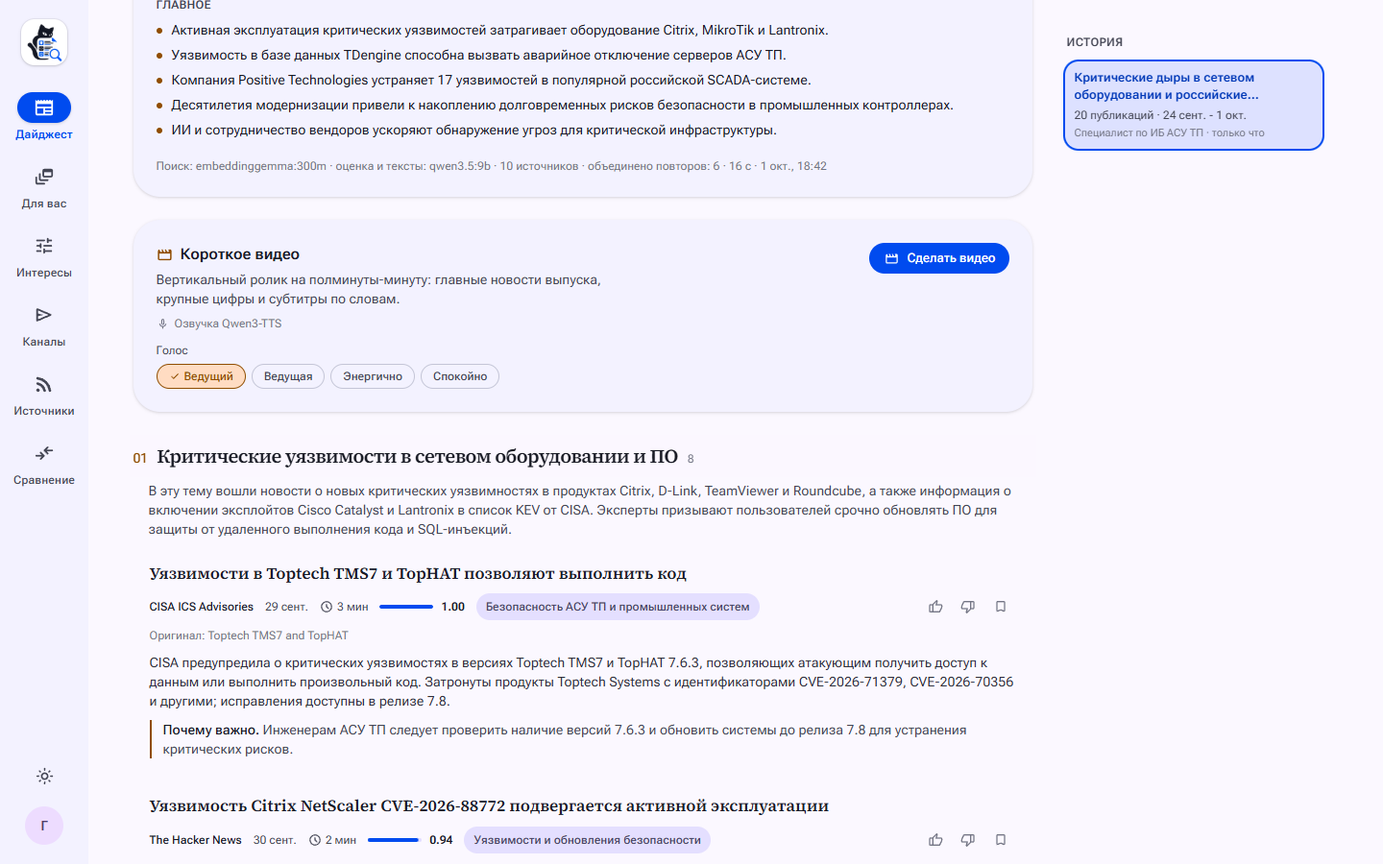
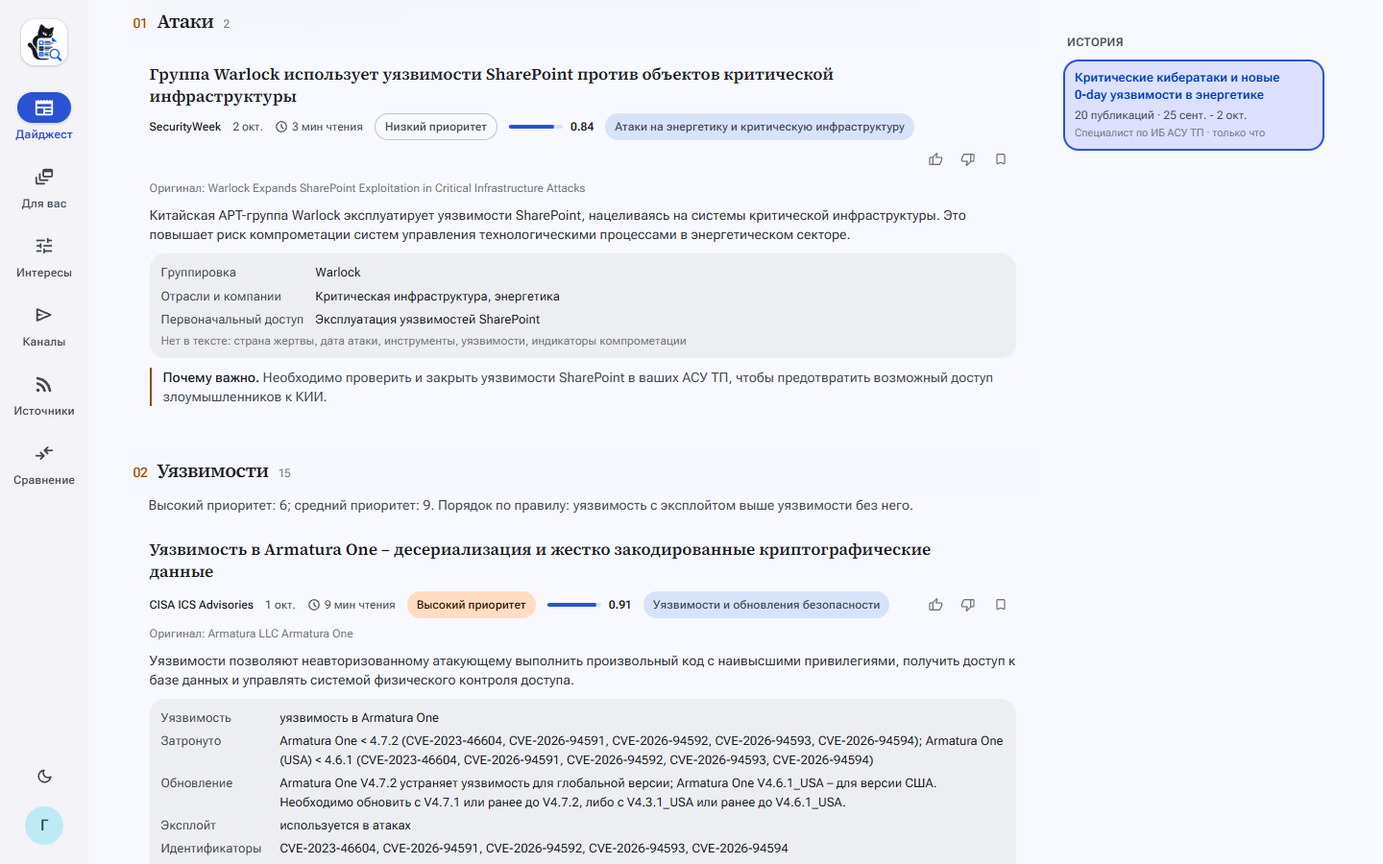
docs: the submission's summary, the business case and a first screen for the jury
The task asks for a short description of the capabilities and limits;
docs/SUMMARY.md is that: the core (collection, selection by interests,
the dataset's formats and priorities, the lookup tool, the check of
results, the digest, interest changes, models, resilience), the modules
one line each, what was measured and the limits of the core first.

docs/BUSINESS.md says who reads what in an energy company, what the
company gets, three ways to deploy (cloud, closed network, hybrid) with
what leaves the network, what a digest costs in model calls, a pilot
with its metrics and the risks. Nothing in it is a number that was not
measured: the hours a manual review takes are the pilot's first metric.

README opens with a table from each task requirement to where to see it,
and its first picture is a specialist's digest with the dataset's
sections and an exploited vulnerability's card. IMPROVEMENT_PLAN.md
starts with what of it is done.

diff --git a/docs/SUMMARY.md b/docs/SUMMARY.md
@@ -1,0 +1,76 @@
+# Tail&Grep: возможности и ограничения
+
+Краткое описание для сдачи полуфинала. Задание - в [docs/task](task/TASK.md), как запустить и что показать - в [README](../README.md), почему решения такие и что измерено - в [DECISIONS](DECISIONS.md).
+
+## Что это
+
+ИИ-ассистент, который каждую неделю или по расписанию собирает для читателя дайджест по ИТ и ИБ для энергетики: забирает публикации из источников, отбирает нужные по интересам читателя, группирует, пишет короткие тексты и выдаёт Markdown и DOCX со ссылками на источники. Формат выпуска повторяет датасет организаторов: специалисту - атаки и уязвимости карточками с приоритетом, руководству - сводки с признаками.
+
+## Возможности ядра
+
+- **Сбор.** 65 источников: 50 лент RSS и Atom, 14 открытых Telegram-каналов и страница трендовых уязвимостей Positive Technologies. Среди них источники из списков датасета, покрытие разобрано в DECISIONS. Опрос каждые 15 минут, полный текст подтягивается со страницы, если в ленте только анонс. Записи БДУ ФСТЭК читаются из данных страницы уязвимости.
+- **Отбор по интересам.** У читателя профиль: интересы с ключевыми словами и весом, исключения, порог, размер выпуска. Поиск по каждому интересу идёт по смыслу и по словам, 60 лучших кандидатов оценивает модель по шкале 0-3 и называет тип записи. Повторы одной новости склеиваются, ссылки на пересказы остаются.
+- **Группировка и формат.**
+  - Специалисту: разделы «Атаки» и «Уязвимости», упорядоченные по правилу датасета. Атака на энергетику и промышленность РФ выше атаки на другие отрасли РФ, атака вне РФ ниже всех; уязвимость с эксплойтом выше уязвимости без него. Остальное разбито на темы с названиями от модели.
+  - Руководству: темы и двенадцать признаков датасета.
+- **Карточки по датасету.**
+  - У атаки: страна жертвы, группировка, дата, отрасли, первоначальный доступ, инструменты, уязвимости, индикаторы.
+  - У уязвимости: продукт, версии, обновление, временные меры, эксплойт, идентификаторы, CVSS, последствия.
+  - У поста из Telegram: ссылки, на которые он ссылается, в обезвреженном виде.
+- **Применение инструментов.** Пока модель пишет карточку, она может вызвать `lookup_vulnerability`: есть ли уязвимость в каталоге CISA KEV и что о ней пишет БДУ ФСТЭК. Номера, о которых модель не спросила, проверяет сам граф.
+- **Проверка результатов.**
+  - Карточка сверяется с текстом статьи и ответами баз: идентификаторы, CVSS, версии, даты, группировка, инструменты, признак эксплойта. Чего в источнике нет, убирается с пометкой.
+  - Число в пересказе или заголовке выпуска, которого нет в статьях, модель исправляет по замечанию, иначе текст заменяется предложениями статьи.
+- **Дайджест.** Markdown и DOCX с гиперссылками. В конце выпуска написано, как он составлен: сколько публикаций было за период, сколько стало кандидатами, сколько вошло, какие модели работали, что поправила проверка.
+- **Смена интересов.** Подборка пересчитывается в редакторе профиля при каждой правке, без модели. Два выпуска сравниваются, у каждой пришедшей и ушедшей статьи видна причина.
+- **Модели.**
+  - Оценки и тексты пишет `gpt-oss:120b` в облаке Ollama.
+  - Модель меняется в `.env`, код не трогается: другая модель Ollama, любой OpenAI-совместимый сервер (Yandex AI Studio, vLLM) или локальная `qwen3.5:9b` для закрытого контура.
+  - Без модели стек работает в автономном режиме.
+- **Устойчивость.**
+  - Сборка - граф LangGraph с чекпоинтами в PostgreSQL: упавший воркер продолжает с прерванного шага.
+  - Ответы модели кешируются.
+  - Битый JSON чинится, неподходящий ответ переспрашивается один раз.
+  - Предохранитель переводит шаг в автономный режим, если модель недоступна.
+
+## Модули сверх задания
+
+Каждый отключается и решает свою задачу:
+- персональная лента «Для вас» читает новости между выпусками;
+- резюме при регистрации даёт профиль интересов без ручной настройки;
+- выпуск по расписанию приходит без запроса;
+- публикация в Telegram-каналы доставляет выпуск туда, где его читают;
+- MCP-сервер отдаёт новости читателя ИИ-ассистенту;
+- короткое видео по выпуску даёт формат для руководства;
+- аналитика и обучаемое ранжирование измеряют пилот.
+
+## Что измерено
+
+| Что | Результат |
+|---|---|
+| Сборка недельного выпуска на `gpt-oss:120b`: 60 кандидатов, 20 записей | 90-106 с, повторная по тому же профилю 7 с |
+| Тот же выпуск через OpenAI-совместимый адрес той же модели | 106 с, без откатов на автономный режим |
+| 21 пример датасета организаторов через решение | прочитано 19 страниц; у атак и уязвимостей тип совпал в 6 из 6, приоритет в 4 из 6; у руководства найдено 22 из 32 признаков |
+| Инструмент в выпуске специалиста по ИБ АСУ ТП | 20 вызовов моделью, 11 проверок графом; уязвимостей с высоким приоритетом 7 вместо 5 без справки |
+| Тесты | бэкенд, фронтенд и сервисы рендера и голоса; `ruff`, `mypy --strict`, `tsc`, `oxlint` |
+
+Разбор каждой цифры - в DECISIONS и [examples/dataset](../examples/dataset/README.md).
+
+## Ограничения
+
+Ядро:
+- **Проверка по тексту.** Она ловит числа, идентификаторы, версии и названия, которых нет в статье. Искажение смысла без чисел и названий она не ловит.
+- **Признак эксплойта.** Он ищется по формулировкам статьи и по CISA KEV и БДУ. Если статья пишет об эксплуатации иначе, а в базах уязвимости нет, запись получит средний приоритет.
+- **Оценка модели.** Правка интересов или исключений оценивает кандидатов заново. Оценка запрашивается при температуре 0, но у статей у порога она может сдвинуться на несколько сотых.
+- **Облачная модель.** Текст статей, темы выпуска и резюме без контактов уходят на серверы Ollama. Для закрытого контура есть локальная модель, но на 9 миллиардах параметров тексты слабее.
+- **Источники.** Часть сайтов из датасета не отдаёт ленту или закрыта от ботов: SecurityLab отвечает 401, у CISOCLUB лента отвечает 403. Выдавать себя за браузер решение не стало.
+- **Yandex AI Studio.** Этот путь закрыт тестом с подменённым сервером. С настоящим ключом его пока не проверяли.
+- **Эталон отбора.** Эталон в `docs/eval` выставила модель-судья, а не люди.
+
+Модули: ограничения ленты, публикации в Telegram, видео и резюме перечислены в README в разделе «Ограничения».
+
+## Что дальше
+
+- Прогон на моделях Яндекса с настоящим ключом и таблица сравнения моделей на одном выпуске.
+- Эталон отбора, размеченный специалистами, и точность отбора по нему.
+- Доставка выпуска на почту для тех, кто не пользуется Telegram.

diff --git a/docs/BUSINESS.md b/docs/BUSINESS.md
@@ -1,0 +1,72 @@
+# Зачем это энергетической компании
+
+## Читатели и их работа сейчас
+
+В энергокомпании за ИТ- и ИБ-новостями следят несколько групп людей, и каждой нужно своё:
+
+- **инженер по ИБ АСУ ТП:** уязвимости ПЛК, SCADA и сетевого оборудования, атаки на энергетику, требования ФСТЭК к объектам КИИ;
+- **руководитель ИТ-инфраструктуры:** уязвимости в продуктах, которые стоят у него, импортозамещение, эксплуатация;
+- **директор по цифровой трансформации:** цифровизация энергетики, крупные инциденты и их цена, регулирование, рынок;
+- **руководство и сотрудники без подготовки в ИБ:** громкие атаки и утечки, штрафы и угрозы, которые касаются их самих, например фишинг и мобильные трояны.
+
+Сейчас это ручная работа: специалист читает десятки сайтов и каналов, выбирает своё и пересказывает коллегам. В датасете организаторов только для специалистов перечислено 24 сайта и 18 Telegram-каналов. Сколько часов на это уходит у конкретной команды, мы не измеряли. Это первая метрика пилота, ниже предложено, как её снять.
+
+## Что получает компания
+
+- **Один выпуск вместо десятков источников.** Специалист получает выпуск по своим интересам и в формате датасета: атаки и уязвимости первыми, с приоритетом по понятному правилу и карточкой, по которой видно, что делать. Руководитель получает сводку без жаргона с признаками «в РФ», «ущерб», «утечка», «энергетика».
+- **Проверяемость.** У каждой записи есть ссылка на первоисточник, оценка и причина, по которой статья попала в выпуск. Проверка по тексту убирает выдуманные числа и номера. Признак эксплойта сверяется с каталогом CISA KEV и БДУ ФСТЭК.
+- **Единая картина угроз для ИБ АСУ ТП.** Уязвимости из бюллетеней CISA ICS, БДУ ФСТЭК, трендовые уязвимости Positive Technologies и русская разведка угроз собраны в одном месте и упорядочены одинаково.
+- **Регуляторика не теряется.** Требования ФСТЭК, Минцифры и Минэнерго - отдельный интерес профиля.
+
+## Как внедрить
+
+| Вариант | Что где работает | Для кого |
+|---|---|---|
+| Облако | сбор, хранение и поиск в контуре компании, оценки и тексты в облачной модели: сейчас `gpt-oss:120b` в облаке Ollama, в финале модели Yandex AI Studio | быстрый старт без видеокарт |
+| Закрытый контур | всё внутри, локальная модель на видеокарте от 8 ГБ (`qwen3.5:9b`) или автономный режим без модели | объекты КИИ, где данные не должны уходить наружу |
+| Гибрид | поиск по смыслу локально, генерация в облаке | компромисс между стоимостью и закрытостью |
+
+Модель меняется в `.env`, код не трогается.
+
+**Данные и 152-ФЗ.**
+- Из резюме до анализа вырезаются контакты. Сам текст резюме не хранится, хранятся только должность, навыки и темы.
+- События чтения удаляются вместе с аккаунтом.
+- В облачную модель уходят текст публичных статей, названия тем и резюме без контактов. Внутренние документы компании в решение не попадают.
+
+**Интеграции, которые уже есть:**
+- выгрузка Markdown и DOCX в базу знаний;
+- публикация в Telegram-каналы по расписанию;
+- MCP-сервер, через который корпоративный ИИ-ассистент видит новости сотрудника.
+
+## Сколько стоит
+
+Стек - Docker Compose. Без модели и без видеокарты он работает на любом сервере.
+
+**Обращения к модели.** Выпуск - это около сотни обращений:
+- 60 оценок кандидатов;
+- 15-20 карточек или сводок;
+- названия тем и главное выпуска;
+- вызовы инструмента, в выпуске специалиста их было 20.
+
+**Кеш.** Повторная сборка по тому же профилю берёт ответы из кеша и занимает 7 с вместо 90.
+
+Стоимость в рублях зависит от тарифа выбранной модели. Для расчёта на компанию нужен замер токенов на выпуск на моделях Яндекса - это пункт плана на финал.
+
+## Пилот
+
+4 недели, 10-20 сотрудников из разных групп выше, каждый со своим профилем.
+
+**Что уже собирается.** Раздел «Аналитика» и события в ClickHouse записывают, что показано и увидено, что открыто, что отмечено «больше такого» и «меньше такого», а также сборку и открытие выпусков.
+
+**Что измерить:**
+- **время до готового обзора:** специалист один раз собирает подборку руками, затем пользуется выпуском, время фиксируется;
+- **полнота:** сколько важных для него новостей недели нашёл выпуск и сколько он сам;
+- **доля открытых записей и отметок «больше такого» по неделям:** растёт ли польза, когда профиль подстраивается под читателя.
+
+**Успех пилота:** специалисты читают выпуск вместо своих источников и не находят в источниках важного, чего в выпуске не было.
+
+## Риски
+
+- **Права на тексты.** Читалка показывает полный текст статей внутри приложения. Для внутреннего использования этого достаточно, для открытого сервиса нужен режим «только выжимки и ссылки» или договорённости с изданиями.
+- **Telegram.** Каналы как источники и доставка в Telegram необязательны. В России Telegram ограничивают, есть выгрузка файлов и MCP.
+- **Ошибки модели.** Проверка по тексту и справочные базы закрывают выдуманные числа и номера, но не искажение смысла. Каждая запись ведёт на первоисточник.

diff --git a/README.md b/README.md
@@ -1,6 +1,25 @@
 # Tail&Grep: ИИ-ассистент дайджестов по ИТ и ИБ для энергетики
 
-Решение первого этапа хакатона «ИИ-ассистенты для энергетики». Ассистент забирает публикации из 65 источников, отбирает те, что отвечают интересам конкретного читателя, группирует их по темам и выдаёт дайджест в Markdown и DOCX со ссылками на источники. Интересы редактируются в интерфейсе, и видно, как каждая правка меняет подборку.
+Решение полуфинала хакатона «ИИ-ассистенты для энергетики» ([задание](docs/task/TASK.md)). Ассистент забирает публикации из 65 источников, отбирает те, что отвечают интересам конкретного читателя, группирует их и выдаёт дайджест в Markdown и DOCX со ссылками на источники в форматах датасета организаторов: специалисту атаки и уязвимости карточками с приоритетом, руководству сводки с признаками. Оценки и тексты пишет `gpt-oss:120b`, модель меняется в `.env`, включая модели Яндекса. Интересы редактируются в интерфейсе, и видно, как каждая правка меняет подборку.
+
+Кратко о возможностях и ограничениях - [docs/SUMMARY.md](docs/SUMMARY.md), зачем это компании - [docs/BUSINESS.md](docs/BUSINESS.md).
+
+## Где что посмотреть по заданию
+
+| Требование задания | Где посмотреть |
+|---|---|
+| Получать публикации из выбранных источников | раздел «Источники»; покрытие списков датасета - DECISIONS, «Источники из датасета» |
+| Отбирать материалы по интересам | раздел «Интересы» с предпросмотром подборки; блок «Не вошло в выпуск» на странице выпуска |
+| Группировать по темам и сохранять ссылки | [examples/ics-security-engineer.md](examples/ics-security-engineer.md): разделы «Атаки» и «Уязвимости» и темы, у каждой записи ссылка и пересказы |
+| Дайджест в Markdown или DOCX | [examples/](examples/README.md): четыре выпуска в обоих форматах |
+| Модели из задания, замена без переработки | `gpt-oss:120b` по умолчанию; блоки для Yandex AI Studio, vLLM и локальной модели в `.env.example`; DECISIONS, «Замена модели без переработки» |
+| Применение инструментов | инструмент модели `lookup_vulnerability`: CISA KEV и БДУ ФСТЭК; DECISIONS, «Инструмент модели» |
+| Проверка результатов | карточки и тексты сверяются со статьёй, убранное видно в записи; DECISIONS, «Формат выпуска по датасету организаторов» |
+| Исходные материалы, результат отбора, изменение подборки | [data/samples](data/samples/articles.jsonl), [examples/](examples/README.md), [три сценария смены интересов](examples/change) |
+| Работа на примерах организаторов | [examples/dataset](examples/dataset/README.md): 21 пример датасета рядом с «желаемым выводом» |
+| Краткое описание возможностей и ограничений | [docs/SUMMARY.md](docs/SUMMARY.md) |
+
+Сверх задания:
 
 У каждого читателя свой аккаунт. При регистрации можно загрузить резюме: по нему ассистент определяет специализацию и предлагает профиль интересов. Раздел «Для вас» - персональная лента, которая учитывает интересы, резюме и оценки читателя и объясняет, почему каждая статья в ней оказалась.
 
@@ -10,7 +29,7 @@
 
 Что читатель увидел в ленте и выпусках, на каком месте, что открыл и отметил, записывается событиями в ClickHouse. По ним администратор видит раздел «Аналитика», а каждую ночь на них учится модель ранжирования ленты. Включается она, только если на последних днях обгонит ручные веса.
 
-![Готовый выпуск: темы, выжимки, строка «почему важно»](docs/screenshots/digest-topics.png)
+![Выпуск специалисту по ИБ АСУ ТП: атаки и уязвимости по приоритету датасета, карточка уязвимости со справкой CISA KEV](docs/screenshots/digest-topics.png)
 
 ## Быстрый запуск
 

diff --git a/docs/IMPROVEMENT_PLAN.md b/docs/IMPROVEMENT_PLAN.md
@@ -1,5 +1,14 @@
 # План доработки к сдаче полуфинала
 
+> **Статус на 2 октября 2026 года.** План сверен с кодом и выполнен по заданию полуфинала ([docs/task](task/TASK.md)), MR !16-!26:
+> - Т1 сделан двумя путями: `gpt-oss:120b` в облаке Ollama и OpenAI-совместимый провайдер для Yandex AI Studio и vLLM.
+> - Т3 сделан как проверка карточек и текстов по статье, плюс инструмент модели со справкой CISA KEV и БДУ.
+> - Т5 сделан как тип записи и приоритет по правилам датасета, пресс-релизы оцениваются не выше 1.
+> - М1 и М2 сделаны: примеры пересобраны, три сценария смены интересов с причинами, прогон 21 примера датасета.
+> - Готовы М4 и М5 (снимок данных и examples/README), Б1 (BUSINESS.md), П1 (первый экран README), П2 (SUMMARY.md).
+> - Не сделаны: Т2 (таблица сравнения моделей, нужен ключ Yandex), Т4 (эталон, размеченный людьми), М6 (новое видео), Б7 (почта).
+> - Цифры в разделах ниже относятся к состоянию до этих работ.
+
 Цель - максимум по трём критериям (30 баллов). Ниже: где мы сейчас, что теряем баллы и почему, задачи с приоритетом, файлами и признаком готовности, порядок работ и чек-лист сдачи.
 
 ## Где мы сейчас
